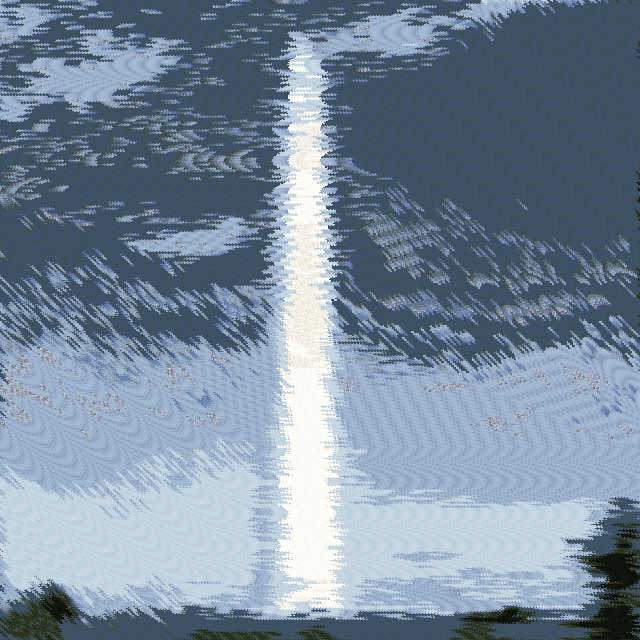
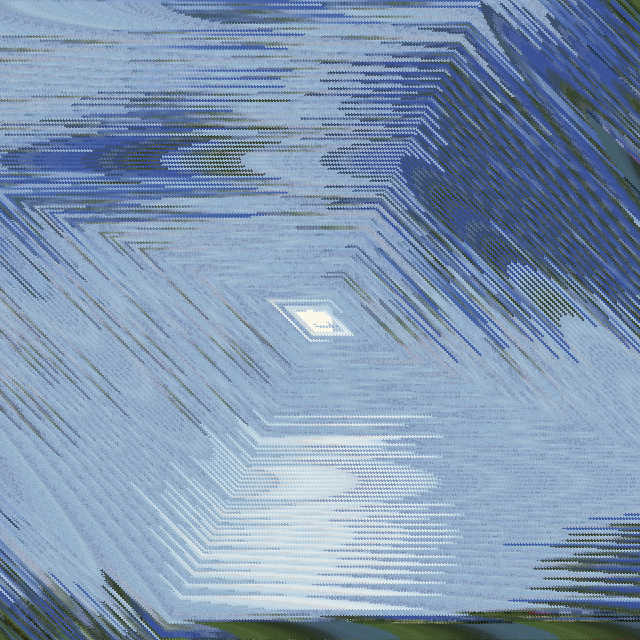
0071 - node --harmony /index.js

diff --git a/sketches/0071/index.js b/sketches/0071/index.js
@@ -77,7 +77,7 @@ var getMin = function(a){
 
 co(function*(){
 
-	var BLOCK_SIZE = 32;
+	var BLOCK_SIZE = 320;
 	var NUM_COLORS = 16;
 	var BACK_TRACK = 16;
 
